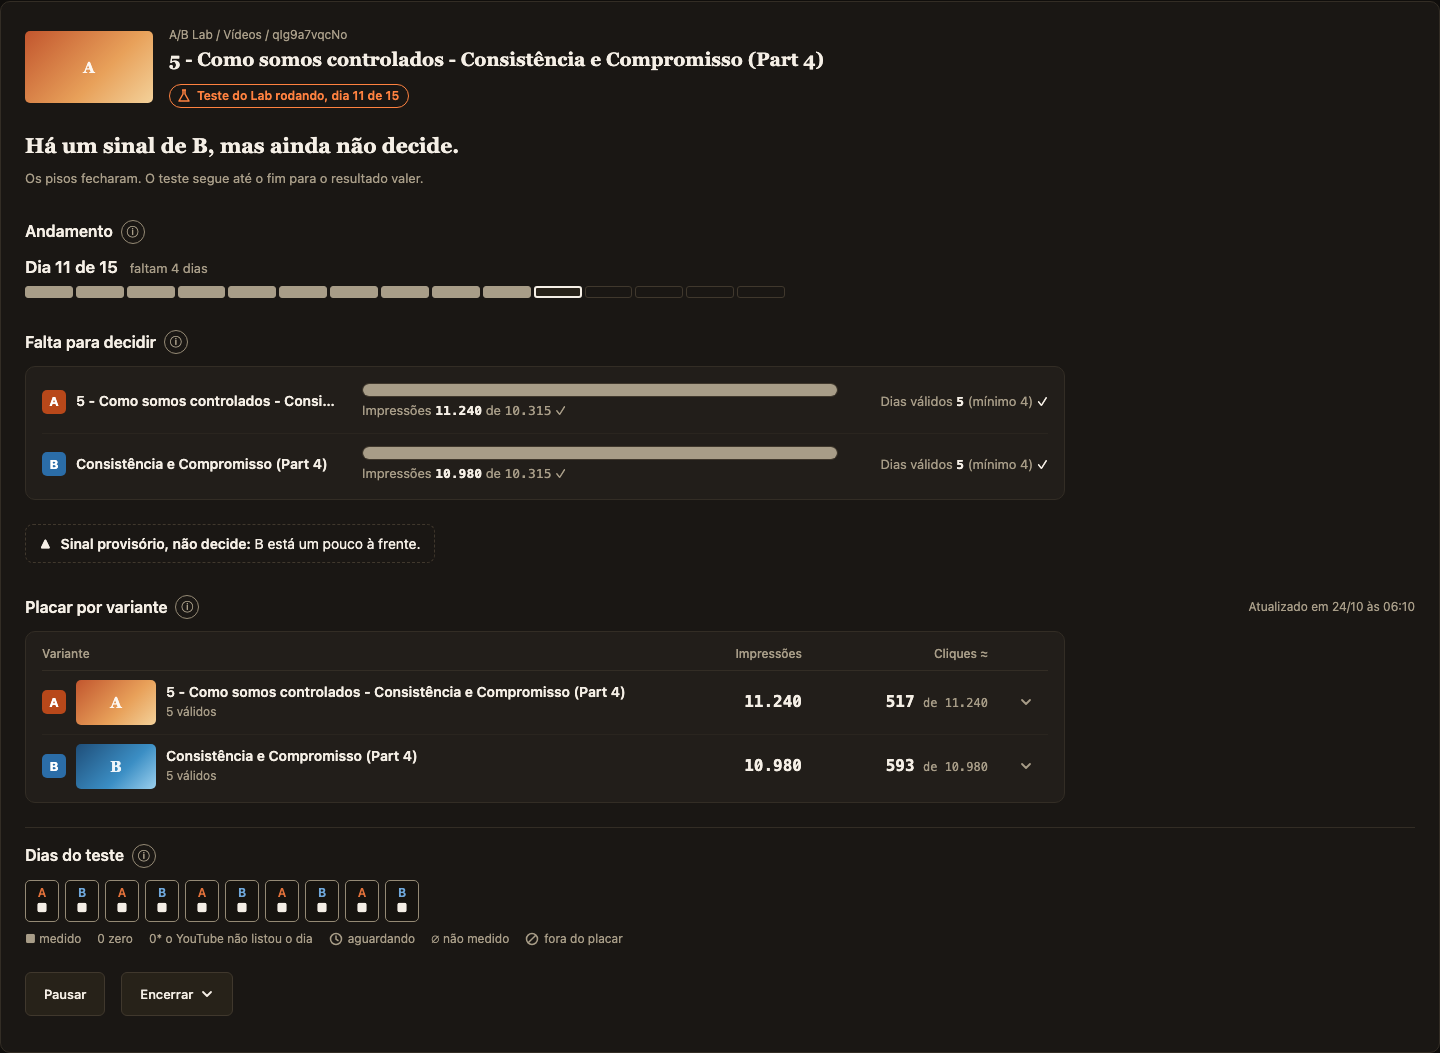
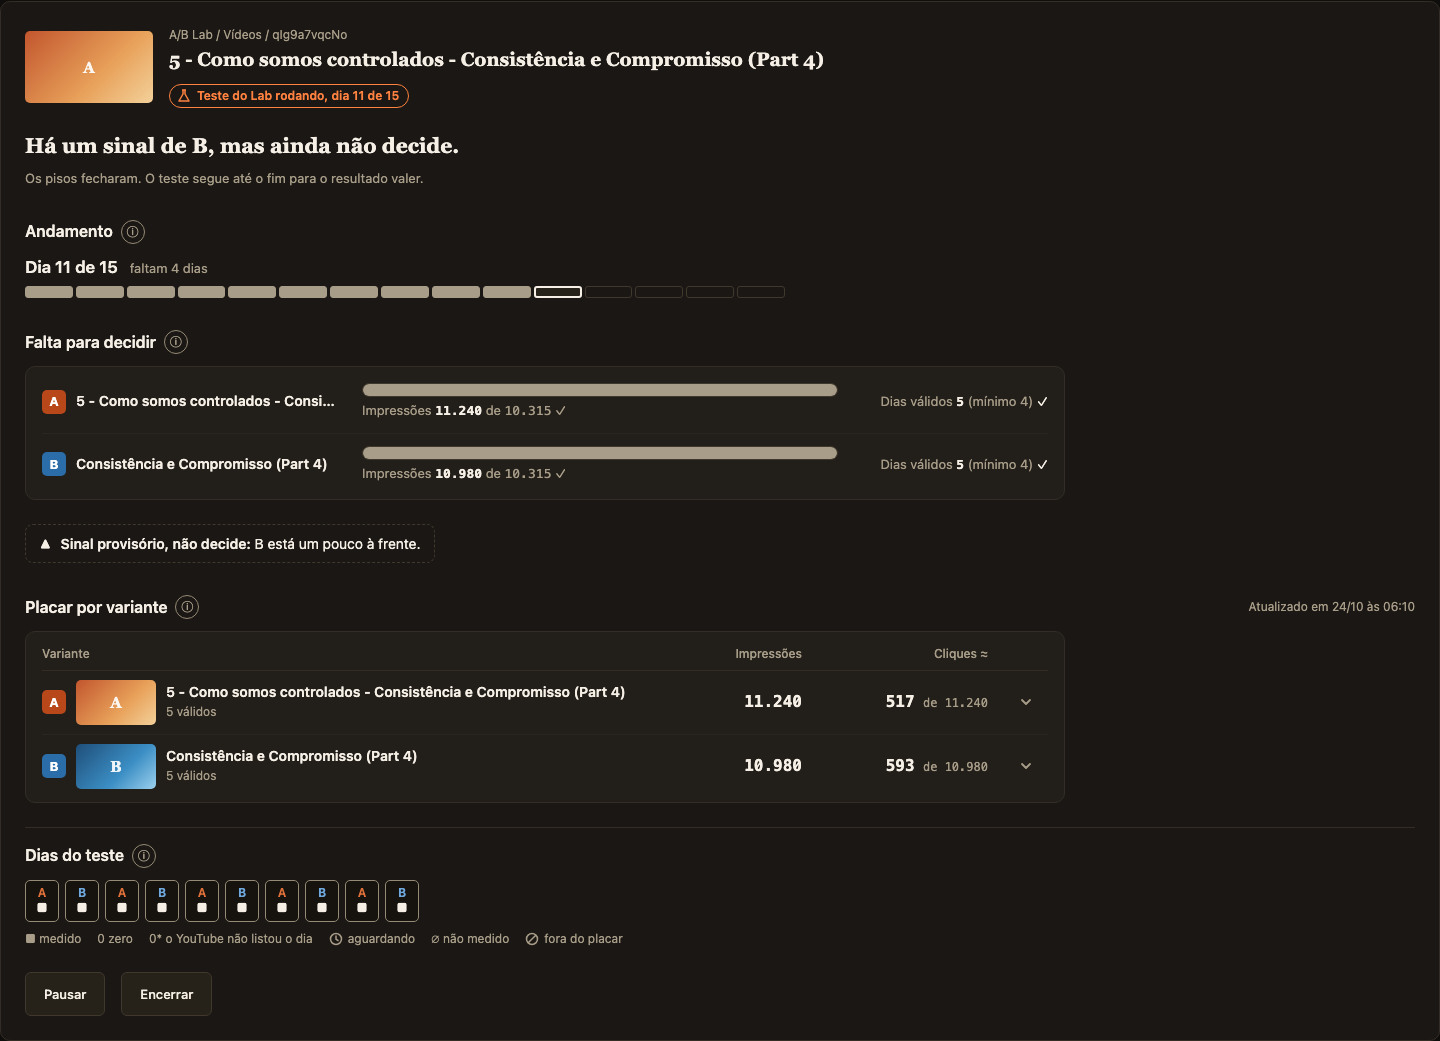
docs: mockup M5 r4 (ⓘ sobreposto e confirmações em diálogo)

diff --git a/docs/superpowers/mockups/2026-10-25-m5-tela-v2/index.html b/docs/superpowers/mockups/2026-10-25-m5-tela-v2/index.html
@@ -92,7 +92,10 @@ h1{font:600 26px/1.2 Georgia,serif;margin:8px 0}
 @container (max-width:640px){.info{width:44px;height:44px;margin:-10px}.info::before{inset:0}}
 .info::before{content:"";position:absolute;inset:-11px}
 /* balão em fluxo: ocupa a linha inteira do contêiner flex e empurra o conteúdo; nunca passa da moldura */
-.tip{order:9;flex:0 0 100%;max-width:60ch;padding:10px 12px;border-radius:8px;background:var(--surface-2);border:1px solid var(--border-strong);color:var(--text);font:400 12px/1.45 Inter,system-ui,sans-serif;text-align:left;font-weight:400}
+.sec .sh,.dias .sh{position:relative}
+.tip{position:absolute;z-index:30;top:calc(100% - 6px);left:0;width:min(60ch,100%);padding:10px 12px;border-radius:8px;background:var(--surface-2);border:1px solid var(--dim);box-shadow:0 6px 20px rgba(0,0,0,.45);color:var(--text);font:400 12px/1.45 Inter,system-ui,sans-serif;text-align:left;font-weight:400}
+.tip.up{top:auto;bottom:calc(100% - 6px)}
+@container (min-width:641px){.tip{top:0;bottom:auto;left:var(--tl,36px);width:360px}}
 .tip[hidden]{display:none}
 .tip b{font-weight:600}
 .tip b{font-weight:600}
@@ -203,7 +206,10 @@ h1{font:600 26px/1.2 Georgia,serif;margin:8px 0}
 .btn.alvo{min-height:44px;padding:0 18px}
 .btn.sec2{background:transparent}
 .conf{border:1px solid var(--border-strong);background:var(--surface-2);border-radius:8px;padding:var(--s3) var(--s4);max-width:62ch}
-.conf[hidden]{display:none}
+dialog.conf{color:var(--text);box-shadow:0 12px 40px rgba(0,0,0,.5);width:calc(100% - 32px);font:400 14px/1.5 Inter,system-ui,-apple-system,sans-serif;border-color:var(--dim);border-radius:10px;margin:auto}
+dialog.conf:not([open]){display:none}
+dialog.conf::backdrop{background:rgba(0,0,0,.6)}
+@media (max-width:640px){dialog.conf{margin:auto 0 0;width:100%;max-width:none;border-radius:12px 12px 0 0;border-bottom:0;padding-bottom:calc(var(--s4) + env(safe-area-inset-bottom))}}
 .conf h3{font:600 15px/1.35 Inter,system-ui,sans-serif}
 .conf p{color:var(--muted);font-size:13px;margin-top:4px}
 .conf .acts{margin-top:var(--s3);gap:var(--s3)}
@@ -282,7 +288,7 @@ const I={
 const NMC='<span class="nm">não medido</span>';
 const n=x=>x.toLocaleString('pt-BR');
 let IC=0;
-function info(label,h){const id='tip'+(++IC);return '<button class="info" type="button" aria-expanded="false" aria-controls="'+id+'" aria-describedby="'+id+'" aria-label="'+label+'" data-info><span class="ig" aria-hidden="true">ⓘ</span></button><span class="tip" id="'+id+'" role="note" hidden>'+h+'</span>'}
+function info(label,h){const id='tip'+(++IC);return '<button class="info" type="button" aria-expanded="false" aria-controls="'+id+'" aria-label="'+label+'" data-info><span class="ig" aria-hidden="true">ⓘ</span></button><span class="tip" id="'+id+'" role="note" hidden>'+h+'</span>'}
 const T1='5 - Como somos controlados - Consistência e Compromisso (Part 4)';
 const T100='Eu testei 4 títulos diferentes no mesmo vídeo durante duas semanas e o resultado final me surpreendeu muito mesmo, veja';
 /* variante: l,t, st(ok|sem|ag|semctr|zero|aus|nt), imp, cl, ctr, val, ag, nm(dias não medidos), z(dias zero) */
@@ -445,12 +451,12 @@ function sinal(e){
 }
 function acoes(e){
  const aberto=e.abrirEncerrar;
- const conf='<div class="conf" id="cfE" '+(aberto?'':'hidden')+' role="group" aria-labelledby="cfEt"><h3 id="cfEt">Encerrar o teste agora?</h3>'
+ const conf='<dialog class="conf" id="cfE" '+(aberto?'data-open ':'')+'aria-labelledby="cfEt"><h3 id="cfEt">Encerrar o teste agora?</h3><p>No ar hoje: A (original).</p>'
  +'<div class="band neu calm" style="margin-top:8px"><span class="ic">'+I.warn+'</span><p>Encerrar à mão tira o teste da decisão: o resultado não será calculado.</p></div>'
  +'<p style="margin-top:12px">A miniatura que fica no ar é a que você escolher abaixo.</p>'
  +'<label><input type="radio" name="fica" checked> Voltar à original (A)</label>'+(e.sinal?'<label><input type="radio" name="fica"> Ficar com '+e.sinal+'</label>':'')
- +'<div class="acts"><button class="btn alvo ghost" type="button" data-fecha="cfE">Cancelar</button><button class="btn alvo pri" type="button" data-fecha="cfE">Encerrar teste</button></div></div>';
- return '<div class="sec acoes"><div class="acts"><button class="btn alvo" type="button">Pausar</button><button class="btn alvo" type="button" aria-expanded="'+(aberto?'true':'false')+'" aria-controls="cfE" data-abre="cfE">Encerrar '+I.chev.replace('width="14" height="14"','width="14" height="14"')+'</button></div><div style="margin-top:12px">'+conf+'</div></div>';
+ +'<div class="acts"><button class="btn alvo ghost" type="button" data-fecha="cfE" autofocus>Cancelar</button><button class="btn alvo pri" type="button" data-fecha="cfE">Encerrar teste</button></div></dialog>';
+ return '<div class="sec acoes"><div class="acts"><button class="btn alvo" type="button">Pausar</button><button class="btn alvo" type="button" aria-haspopup="dialog" data-abre="cfE">Encerrar</button></div>'+conf+'</div>';
 }
 /* desfecho */
 const DS={
@@ -479,12 +485,12 @@ function desfecho(e){
   ?(e.prov?'<span class="provl">'+I.clock+'Provisório até '+e.prov+': pode mudar nos próximos dias.</span>':'<span class="provl"><span aria-hidden="true">■</span>Final: já não muda.</span>'):'';
  let btn='';
  if(e.d==='venc'&&!e.aplicada){
-  btn='<div class="acts"><button class="btn alvo pri" type="button" data-abre="cfA" aria-expanded="false" aria-controls="cfA">Aplicar '+e.who+' ao vídeo</button></div>'
-  +'<div class="conf" id="cfA" hidden role="group" aria-labelledby="cfAt"><h3 id="cfAt">Aplicar '+e.who+' ao vídeo?</h3><p>A miniatura muda agora no YouTube.'+(e.prov?' O desfecho ainda é provisório.':'')+'</p><div class="acts"><button class="btn alvo pri" type="button" data-aplica="cfA">Aplicar '+e.who+'</button><button class="btn alvo ghost" type="button" data-fecha="cfA">Cancelar</button></div></div>';
+  btn='<div class="acts"><button class="btn alvo pri" type="button" data-abre="cfA" aria-haspopup="dialog">Aplicar '+e.who+' ao vídeo</button></div>'
+  +'<dialog class="conf" id="cfA" aria-labelledby="cfAt"><h3 id="cfAt">Aplicar '+e.who+' ao vídeo?</h3><p>A miniatura muda agora no YouTube.'+(e.prov?' O desfecho ainda é provisório.':'')+'</p><div class="acts"><button class="btn alvo pri" type="button" data-aplica="cfA">Aplicar '+e.who+'</button><button class="btn alvo ghost" type="button" data-fecha="cfA" autofocus>Cancelar</button></div></dialog>';
  }
  if(e.aplicada&&!e.manual){
-  btn='<div class="acts"><button class="btn alvo" type="button" data-abre="cfV" aria-expanded="false" aria-controls="cfV">Voltar à original</button></div>'
-  +'<div class="conf" id="cfV" hidden role="group" aria-labelledby="cfVt"><h3 id="cfVt">Voltar à original (A)?</h3><p>A miniatura volta a ser a de A agora no YouTube. O resultado do teste não muda e continua visível aqui.</p><div class="acts"><button class="btn alvo ghost" type="button" data-fecha="cfV">Cancelar</button><button class="btn alvo pri" type="button" data-volta="cfV">Sim, voltar à original</button></div></div>';
+  btn='<div class="acts"><button class="btn alvo" type="button" data-abre="cfV" aria-haspopup="dialog">Voltar à original</button></div>'
+  +'<dialog class="conf" id="cfV" aria-labelledby="cfVt"><h3 id="cfVt">Voltar à original (A)?</h3><p>A miniatura volta a ser a de A agora no YouTube. O resultado do teste não muda e continua visível aqui.</p><div class="acts"><button class="btn alvo ghost" type="button" data-fecha="cfV" autofocus>Cancelar</button><button class="btn alvo pri" type="button" data-volta="cfV">Sim, voltar à original</button></div></dialog>';
  }
  const extra=e.d==='ileg'?'<div class="acts"><button class="btn alvo" type="button">Tentar de novo</button></div>':'';
  return '<div class="desf"><span class="sel '+s.c+'" role="status"><span class="sy" aria-hidden="true">'+s.s+'</span>'+s.t+'</span>'+prov+noar(e)+btn+extra+'</div>';
@@ -529,24 +535,34 @@ let tema=Q.get('tema')==='claro'?'claro':'escuro';
 let larg=['1440','390'].includes(Q.get('largura'))?Q.get('largura'):'ambas';
 let skT;
 function sync(){history.replaceState(null,'','?'+new URLSearchParams({estado,tema,largura:larg}))}
-function closeTips(){document.querySelectorAll('[data-info]').forEach(x=>{x.setAttribute('aria-expanded','false');const t=document.getElementById(x.getAttribute('aria-controls'));if(t)t.hidden=true})}
+function closeTips(){document.querySelectorAll('[data-info]').forEach(x=>{x.setAttribute('aria-expanded','false');const t=document.getElementById(x.getAttribute('aria-controls'));if(t){t.hidden=true;t.classList.remove('up')}})}
+function openTip(b){const tip=document.getElementById(b.getAttribute('aria-controls')),fr=b.closest('.frame'),sh=b.closest('.sh');b.setAttribute('aria-expanded','true');tip.hidden=false;tip.classList.remove('up');
+ const wide=fr.clientWidth-parseFloat(getComputedStyle(fr).paddingLeft)*2>640;
+ if(wide){tip.style.setProperty('--tl',(b.offsetLeft+b.offsetWidth+8)+'px');return}
+ // 390: acima do ⓘ; vira para baixo só sem espaço no topo da janela
+ tip.classList.add('up');if(b.getBoundingClientRect().top-tip.offsetHeight-8<0)tip.classList.remove('up')}
 function paint(){
  const ws=larg==='ambas'?['1440','390']:[larg];
  document.getElementById('figs').innerHTML=ws.map(w=>'<figure class="fig"><figcaption>'+(w==='1440'?'Desktop 1440 px':'Celular 390 px')+'</figcaption><div class="frame w'+w+'" data-theme="'+(tema==='claro'?'light':'dark')+'">'+render(estado,w)+'</div></figure>').join('');
  document.querySelectorAll('#sEstado button').forEach(b=>b.setAttribute('aria-pressed',b.dataset.v===estado));
  document.querySelectorAll('#sTema button').forEach(b=>b.setAttribute('aria-pressed',b.dataset.v===tema));
  document.querySelectorAll('#sLarg button').forEach(b=>b.setAttribute('aria-pressed',b.dataset.v===larg));
- document.querySelectorAll('[data-info]').forEach(b=>b.addEventListener('click',ev=>{ev.stopPropagation();const o=b.getAttribute('aria-expanded')==='true';closeTips();if(!o){b.setAttribute('aria-expanded','true');document.getElementById(b.getAttribute('aria-controls')).hidden=false}}));
+ document.querySelectorAll('[data-info]').forEach(b=>b.addEventListener('click',ev=>{ev.stopPropagation();const o=b.getAttribute('aria-expanded')==='true';closeTips();if(!o)openTip(b)}));
+ document.querySelectorAll('[data-info]').forEach(b=>b.addEventListener('focusout',ev=>{const t=document.getElementById(b.getAttribute('aria-controls'));if(b.getAttribute('aria-expanded')==='true'&&!(ev.relatedTarget&&(ev.relatedTarget===b||t.contains(ev.relatedTarget))))closeTips()}));
+ document.querySelectorAll('.tip').forEach(t=>t.addEventListener('click',ev=>ev.stopPropagation()));
  document.querySelectorAll('[data-exp]').forEach(b=>b.addEventListener('click',()=>{const o=b.getAttribute('aria-expanded')==='true';b.setAttribute('aria-expanded',!o);document.getElementById(b.getAttribute('aria-controls')).classList.toggle('open',!o)}));
- document.querySelectorAll('[data-abre]').forEach(b=>b.addEventListener('click',()=>{const f=b.closest('.frame'),c=f.querySelector('#'+b.dataset.abre);c.hidden=!c.hidden;b.setAttribute('aria-expanded',String(!c.hidden))}));
- document.querySelectorAll('[data-fecha]').forEach(b=>b.addEventListener('click',()=>{const f=b.closest('.frame'),c=f.querySelector('#'+b.dataset.fecha);c.hidden=true;const o=f.querySelector('[data-abre="'+b.dataset.fecha+'"]');if(o){o.setAttribute('aria-expanded','false');o.focus()}}));
+ document.querySelectorAll('[data-abre]').forEach(b=>b.addEventListener('click',()=>{closeTips();b.closest('.frame').querySelector('#'+b.dataset.abre).showModal()}));
+ document.querySelectorAll('dialog.conf').forEach(c=>{c.addEventListener('click',ev=>{if(ev.target===c)c.close()});c.addEventListener('close',()=>{const o=c.closest('.frame')?.querySelector('[data-abre="'+c.id+'"]');if(o&&c.isConnected&&!c.dataset.feito)o.focus()});if(c.hasAttribute('data-open'))c.showModal()});
+ document.querySelectorAll('[data-fecha]').forEach(b=>b.addEventListener('click',()=>{b.closest('dialog').close()}));
  document.querySelectorAll('[data-volta]').forEach(b=>b.addEventListener('click',()=>{const d=b.closest('.desf');const t=d.querySelector('.noar');const antes=t.querySelector('.th').textContent;d.querySelector('.acts').remove();b.closest('.conf').remove();t.querySelector('.th').className='th tA';t.querySelector('.th').textContent='A';t.querySelector('span').innerHTML='No ar agora: <b>A (original)</b>. '+antes+' deixou de ser aplicada.';if(!d.querySelector('.desfeito')){const sl=d.querySelector('.sel');const x=document.createElement('span');x.className='sel neu desfeito';x.setAttribute('role','status');x.innerHTML='<span class="sy" aria-hidden="true">◆</span>Aplicação de '+antes+' desfeita';sl.after(x)}t.tabIndex=-1;t.focus()}));
  document.querySelectorAll('[data-aplica]').forEach(b=>b.addEventListener('click',()=>{const d=b.closest('.desf');d.querySelector('.acts').remove();b.closest('.conf').remove();const t=d.querySelector('.noar');t.querySelector('span').innerHTML='<b>'+E[estado].who+'</b> está no ar.';t.tabIndex=-1;t.focus()}));
  clearTimeout(skT);if(estado==='carregando')skT=setTimeout(()=>document.querySelectorAll('.skmsg').forEach(m=>{m.innerHTML='Está demorando; a conexão pode estar lenta. <button class="btn ghost" type="button">Tentar de novo</button>'}),8000);
  sync();
 }
 document.getElementById('sEstado').innerHTML=ORDEM.map(k=>'<button data-v="'+k+'">'+E[k].rot+'</button>').join('');
-document.addEventListener('keydown',ev=>{if(ev.key!=='Escape')return;const cf=document.querySelector('.conf:not([hidden])');if(cf){cf.hidden=true;const g=document.querySelector('[data-abre="'+cf.id+'"]');if(g){g.setAttribute('aria-expanded','false');g.focus()}return}const o=document.querySelector('[data-info][aria-expanded="true"]');if(o){closeTips();o.focus()}});
+document.addEventListener('keydown',ev=>{if(ev.key!=='Escape')return;if(document.querySelector('dialog.conf[open]'))return;const o=document.querySelector('[data-info][aria-expanded="true"]');if(o){closeTips();o.focus()}});
+window.addEventListener('resize',closeTips);
+document.addEventListener('pointerdown',ev=>{if(!ev.target.closest('.tip,[data-info]'))closeTips()});
 document.addEventListener('click',ev=>{
  const b=ev.target.closest('.seg button');
  if(b){const g=b.parentElement.id;if(g==='sEstado')estado=b.dataset.v;if(g==='sTema')tema=b.dataset.v;if(g==='sLarg')larg=b.dataset.v;paint();return}

diff --git a/docs/superpowers/mockups/2026-10-25-m5-tela-v2/README.md b/docs/superpowers/mockups/2026-10-25-m5-tela-v2/README.md
@@ -66,3 +66,9 @@ Verificação: `node verifica.mjs` (Playwright headless; refaz as 39 capturas e 
 5. Confirmar do Voltar ganhou o rótulo "Sim, voltar à original" (o gatilho segue "Voltar à original"): sem dois botões idênticos.
 6. `verifica.mjs` confere: Esc fecha cada confirmação e o foco volta ao gatilho; nenhum rótulo de botão duplicado com a confirmação aberta; foco após Aplicar/Voltar em `.noar`. Resultado: 39 capturas, 0 falhas.
 7. Capturas novas: `*-claro-390-confirma.png` e `*-claro-390-depois.png` (estados tocados).
+
+## r4: o que mudou (pedido do dono, 25/10: ⓘ não muda o layout; confirmações em diálogo)
+1. ⓘ é popover `position:absolute` ancorado ao cabeçalho da seção: a altura do documento e das seções é igual com ⓘ aberto e fechado (o script mede em todos os ⓘ, 1440 e 390, claro e escuro). 1440: à direita do ⓘ, 360 px; 390: acima, vira para baixo só sem espaço no topo; sempre dentro da moldura. Borda `--dim`, sombra rgba literal, um só `aria-expanded`/`aria-controls` (sem `aria-describedby`), toque de 44 px a 390. Fecha com Esc (foco volta ao ⓘ), toque fora, outro ⓘ, Tab para fora e resize.
+2. Encerrar, Aplicar e Voltar à original são `<dialog>.showModal()`: centrado a 1440, colado ao rodapé a 390; foco inicial em Cancelar; Esc e Cancelar fecham e devolvem o foco ao gatilho; clique no fundo fecha. `::backdrop` rgba literal, sem color-mix. Os tokens chegam ao dialog por herança do DOM (ele continua dentro de `.frame`); o script confere que o fundo não é transparente nos dois temas. Encerrar sem seta, com `aria-haspopup="dialog"`, e "No ar hoje: A (original)." na primeira linha. Textos das confirmações r3 mantidos.
+3. `verifica.mjs`: altura igual com ⓘ aberto/fechado, popover dentro do viewport a 390, dialog modal com foco em Cancelar e Esc devolvendo o foco, mais os checks antigos. 39 capturas, 0 falhas. Capturas novas: `info-aberto-escuro-{1440,390}.png`, `encerrar-aberto-escuro-{1440,390}.png`.
+- Vale também para o placar em produção (tarefa da T12): trocar o balão em fluxo pelo popover e usar o mesmo componente de diálogo.
